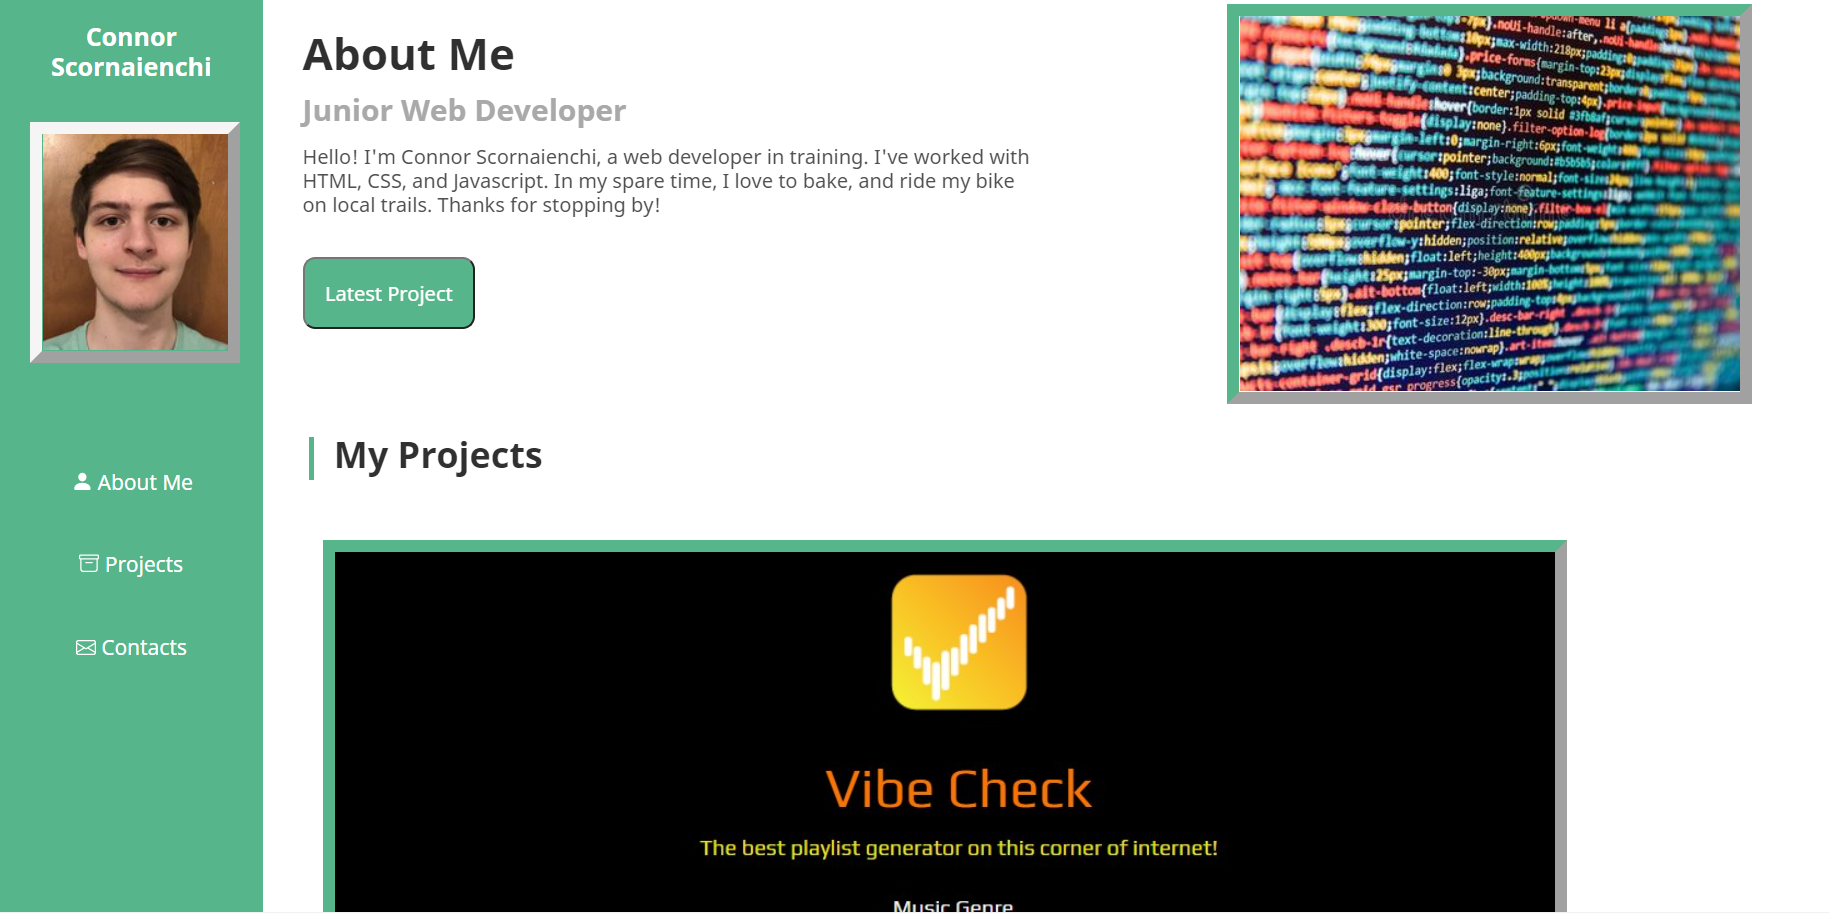
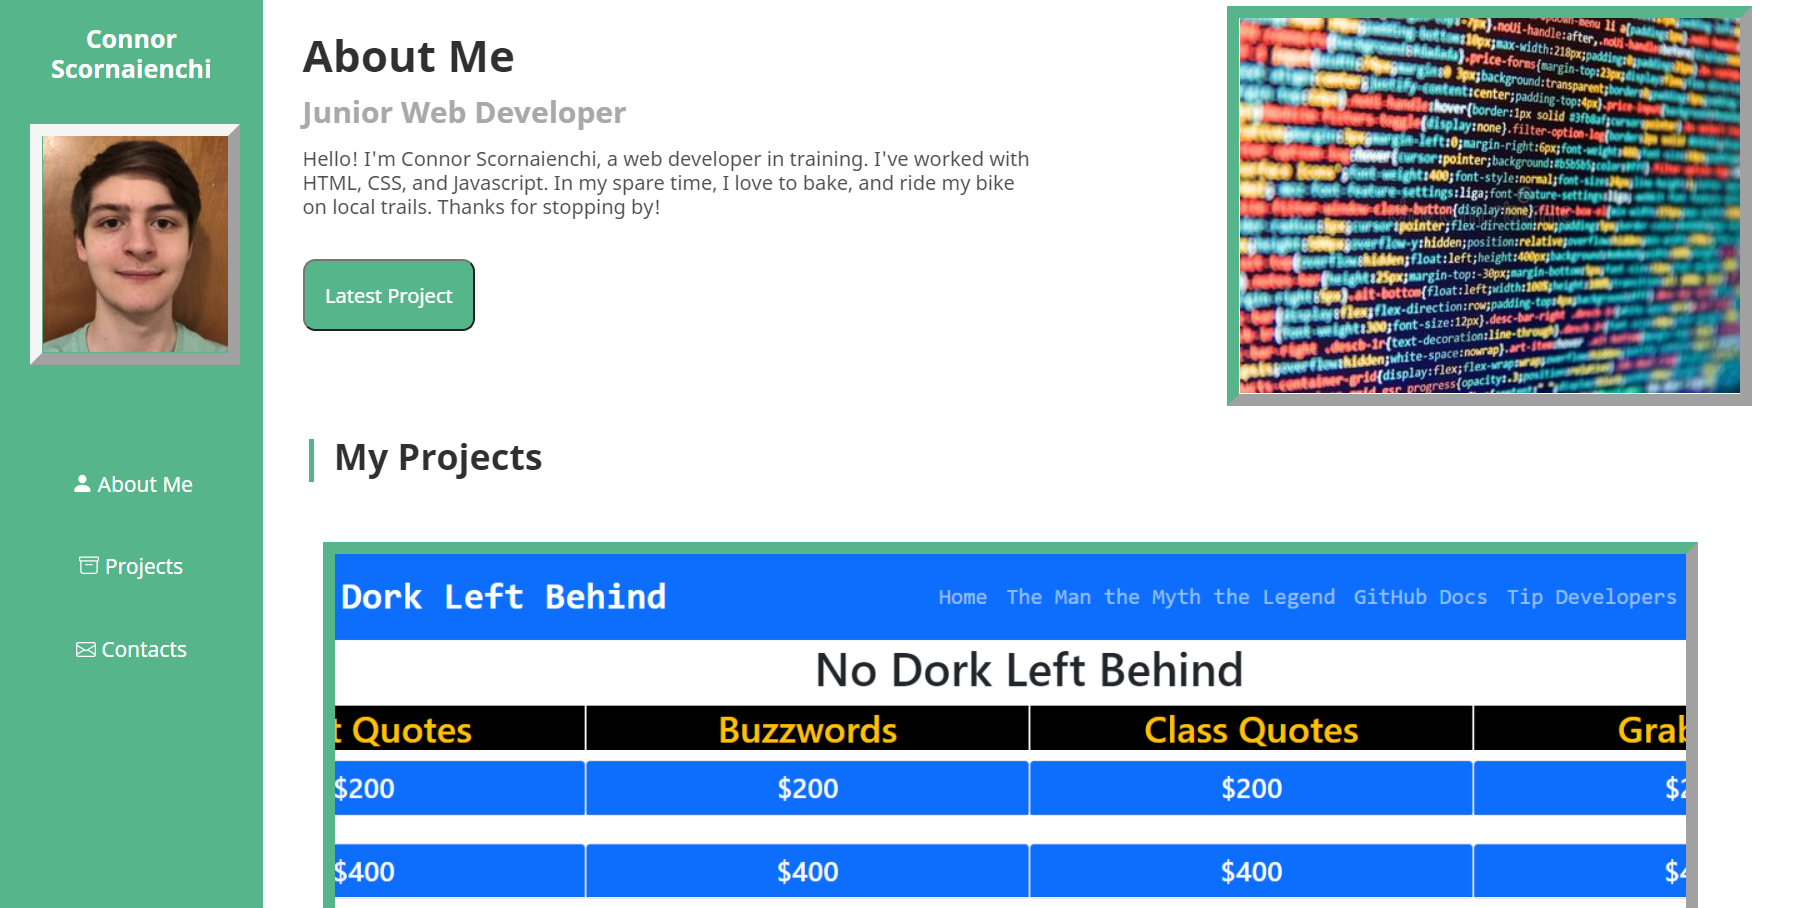
added new projects as of 9/11

diff --git a/assets/css/styles.css b/assets/css/styles.css
@@ -171,9 +171,9 @@ h4::before {
   margin-right: 1rem;
 }
 
-/* rock, paper, scissors */
+/* no dork left behind */
 
-.vibe-check {
+.no-dork-left-behind {
   display: inline-block;
   width: 100%;
   height: 90vh;
@@ -183,7 +183,7 @@ h4::before {
   transition-duration: 0.4s;
 }
 
-#vibe-check-title {
+#ndlb-title {
   background-color: #56b58a;
   position: absolute;
   bottom: 0;
@@ -193,21 +193,21 @@ h4::before {
   line-height: 1.5rem;
 }
 
-#vibe-check-tech {
+#ndlb-tech {
   font-weight: 500;
 }
 
-#vibe-check:hover {
+#ndlb-title:hover {
   transition-duration: 0.4s;
   color: #3f4743;
 }
 
-#vibe-check:hover > #rps-tech {
+#ndlb-title:hover > #ndlb-tech {
   transition-duration: 0.4s;
   color: #3f4743;
 }
 
-.vibe-check img {
+.no-dork-left-behind img {
   height: inherit;
   border-right: #f5f5f5 10px outset;
   border-bottom: #f5f5f5 10px outset;
@@ -215,9 +215,9 @@ h4::before {
   border-top: #56b58a 10px outset;
 }
 
-/* quiz project */
+/* note taker */
 
-.quiz-project {
+.note-taker {
   display: inline-block;
   width: 47%;
   height: 50vh;
@@ -227,7 +227,7 @@ h4::before {
   transition-duration: 0.4s;
 }
 
-#quiz-title {
+#note-taker-title {
   background-color: #56b58a;
   position: absolute;
   bottom: 0;
@@ -237,21 +237,21 @@ h4::before {
   line-height: 1.5rem;
 }
 
-#quiz-tech {
+#note-taker-tech {
   font-weight: 500;
 }
 
-#quiz-title:hover {
+#note-taker-title:hover {
   transition-duration: 0.4s;
   color: #3f4743;
 }
 
-#quiz-title:hover > #quiz-tech {
+#note-taker-title:hover > #note-taker-tech {
   transition-duration: 0.4s;
   color: #3f4743;
 }
 
-.quiz-project img {
+.note-taker img {
   height: inherit;
   border-right: #f5f5f5 10px outset;
   border-bottom: #f5f5f5 10px outset;
@@ -344,45 +344,3 @@ h4::before {
   width: 30vh;
 }
 
-
-/* .rps-project {
-  display: inline-block;
-  width: 100%;
-  height: 90vh;
-  padding: 1rem;
-  margin: 1rem;
-  cursor: pointer;
-  transition-duration: 0.4s;
-}
-
-#rps-title {
-  background-color: #56b58a;
-  position: absolute;
-  bottom: 0;
-  left: 0;
-  padding: 1rem;
-  font-weight: 900;
-  line-height: 1.5rem;
-}
-
-#rps-tech {
-  font-weight: 500;
-}
-
-#rps-title:hover {
-  transition-duration: 0.4s;
-  color: #3f4743;
-}
-
-#rps-title:hover > #rps-tech {
-  transition-duration: 0.4s;
-  color: #3f4743;
-}
-
-.rps-project img {
-  height: inherit;
-  border-right: #f5f5f5 10px outset;
-  border-bottom: #f5f5f5 10px outset;
-  border-left: #56b58a 10px outset;
-  border-top: #56b58a 10px outset;
-} */

diff --git a/index.html b/index.html
@@ -68,16 +68,18 @@
             <div>
                 <h4 class="my-projects-title">My Projects</h4>
             </div>
-            <a href="https://project-one-group-three.github.io/vibe-check/">
-                <div class="vibe-check">
-                    <img src="./assets/images/vibe check.jpg" alt="Vibe Check" id="vc-image">
-                    <p id="vibe-check-title">Vibe Check<br><span id="vibe-check-tech">HTML, CSS, Javascript</span></p>
+            <a href="https://project-hero-jwh.herokuapp.com/">
+                <div class="no-dork-left-behind">
+                    <img src="./assets/images/ndlb.png" alt="No Dork Left Behind" id="ndlb-image">
+                    <p id="ndlb-title">No Dork Left Behind<br><span id="ndlb-tech">React.js, Express, Javascript</span>
+                    </p>
                 </div>
             </a>
-            <a href="https://conscorn.github.io/hw1/">
-                <div class="quiz-project">
-                    <img src="./assets/images/webdevquiz.png" alt="Junior Web Dev Quiz" id="quiz-image">
-                    <p id="quiz-title">Junior Developer Quiz <br><span id="quiz-tech">HTML, CSS, Javascript</span></p>
+            <a href="https://note-taker-c.herokuapp.com/">
+                <div class="note-taker">
+                    <img src="./assets/images/note-taker.png" alt="Note Taker" id="note-taker-image">
+                    <p id="note-taker-title">Note Taker<br><span id="note-taker-tech">HTML, CSS,
+                            Javascript, SQL</span></p>
                 </div>
             </a>
             <a href="https://conscorn.github.io/work-day-scheduler/">
